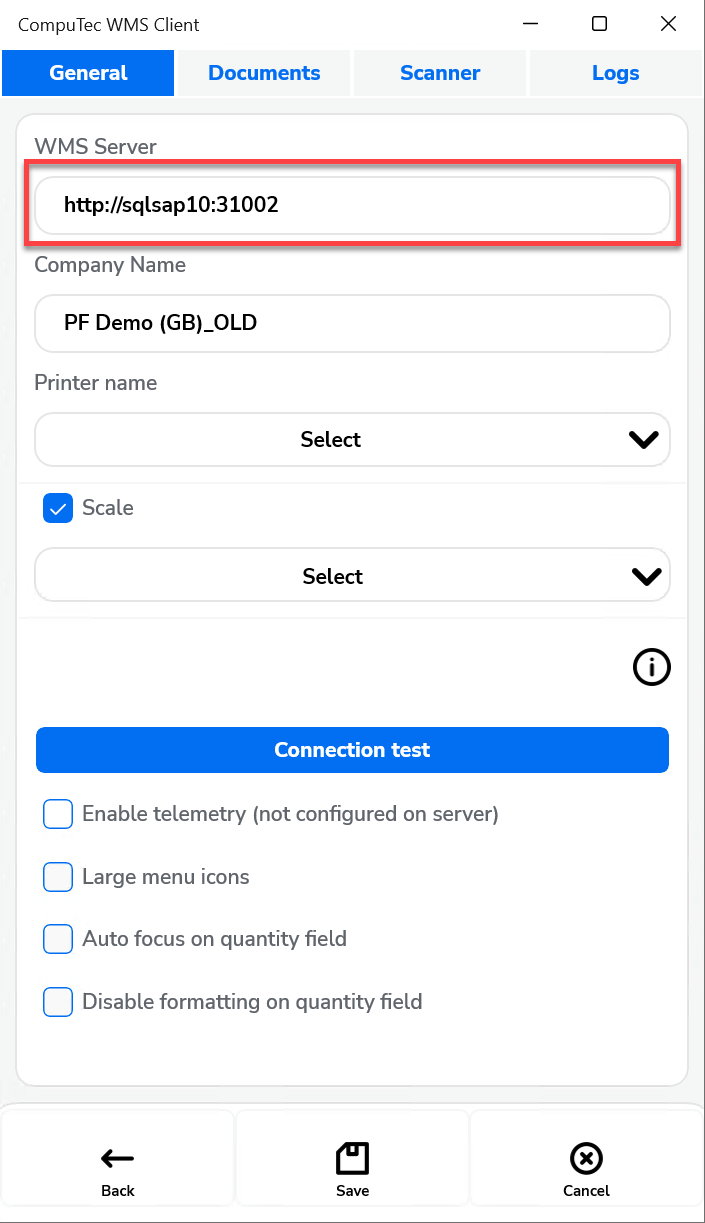
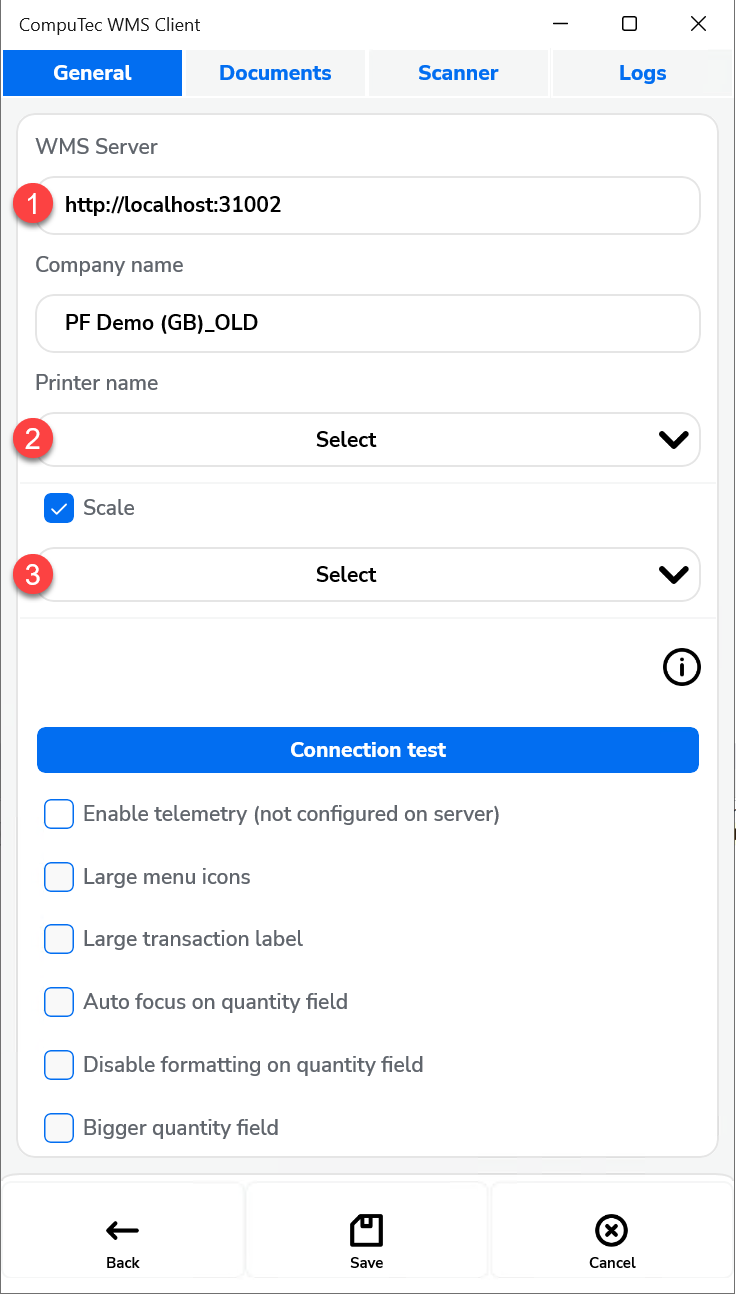
Update

diff --git a/docs/wms/user-guide/starting.md b/docs/wms/user-guide/starting.md
@@ -19,11 +19,13 @@ CompuTec WMS Client offers various startup options, including server configurati
 
 ### Configuration of WMS client-server Connection
 
-The server address has to be the same as the address where the CompuTec WMS Server is installed.
-The port number has to be the same as defined in the server settings (you can check it here).
-Check the Scale checkbox if CompuTec WMS is planned to be used with a scale.
+ ![WMS Client Server Connection](./media/starting/wms-client-server.png)
 
-    ![WMS Client Server Connection](./media/starting/wms-client-server.png)
+To ensure seamless communication between the CompuTec WMS Client and Server, follow the steps below:
+
+1. **Server Address & Port**: Ensure that the server address matches the location where the CompuTec WMS Server is installed. The port number must align with the one specified in the server settings. You can verify this in the server configuration.
+2. **Printer Setup**: Define the printer that will handle CompuTec Labels whenever WMS sends a new request. The printer's IP address can be configured in Custom Configuration under the Common tab. For more details, click [here](../administrator-guide/custom-configuration/custom-configuration-functions/common.md).
+3. **Scale Integration**: If the CompuTec WMS is intended for use with a scale, enable the Scale checkbox to activate this functionality.
 
 ### Info icon
 
@@ -86,3 +88,5 @@ Note that opening the Settings form and clicking Save (even without changing any
 
 5. The main menu window appears.
 The desktop version of CompuTec WMS Client is ready to work with.
+
+---

diff --git a/appengine_versioned_docs/version-2.0/administrators-guide/installation.md b/appengine_versioned_docs/version-2.0/administrators-guide/installation.md
@@ -4,6 +4,10 @@ sidebar_position: 2
 
 # Installation
 
+This guide will walk you through the installation process for CompuTec ProcessForce AppEngine, ensuring a smooth setup and proper configuration. Follow the steps below to get started.
+
+---
+
 1. Run the installation file (CompuTec ProcessForce AppEngine) from the [Download](../../version-2.0/releases/plugins/processforce/download.md) section and click Install in the opened installation Wizard.
 2. Click Close after getting Installation Successfully Completed.
 3. Now, the new service should be running:
@@ -20,7 +24,10 @@ sidebar_position: 2
     **Here is an example for Google Chrome or Microsoft Edge (Chromium)**
 
     Open Google Chrome or Microsoft Edge (Chromium) browser and click F12 to open Developers Tools (1.). Right-click on the refresh button (2.) and choose the Empty Cach and Hard Reload option (3.):
+    
     ![Empty Cache and Hard Reload](./media/installation/empty-cache-and-hard-reload.png)
     </div>
     </details>
 :::
+
+---
